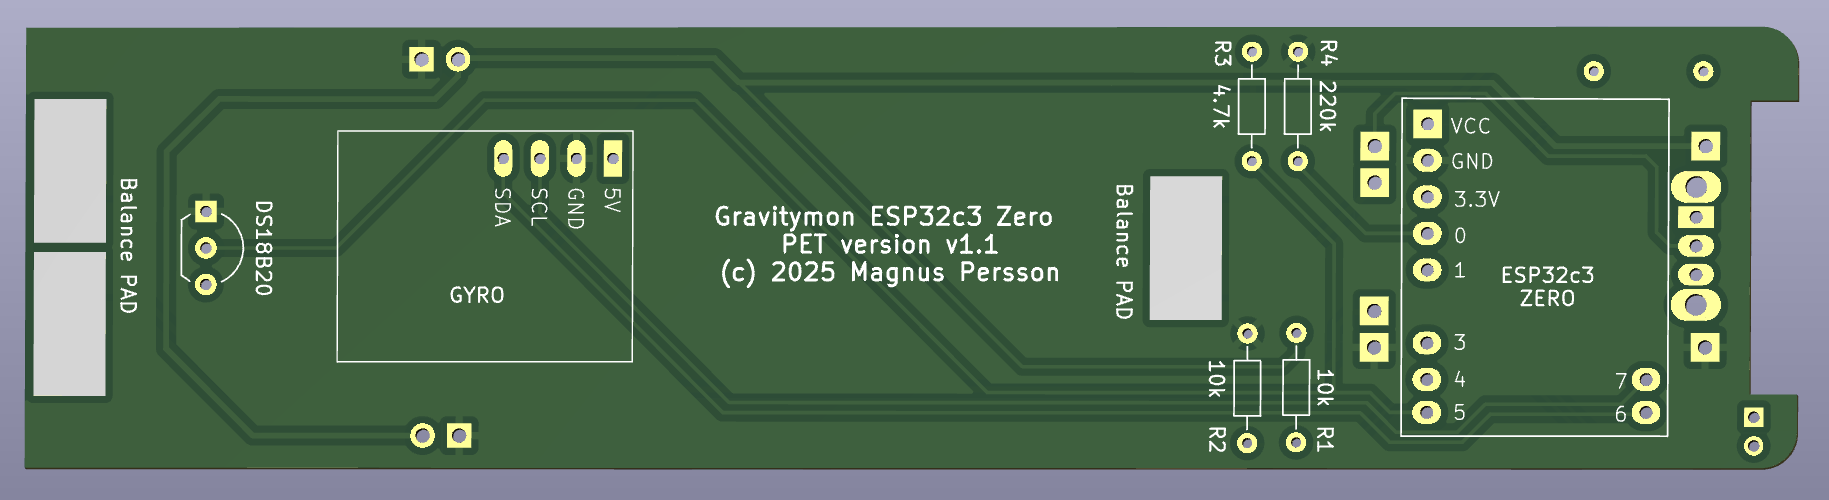
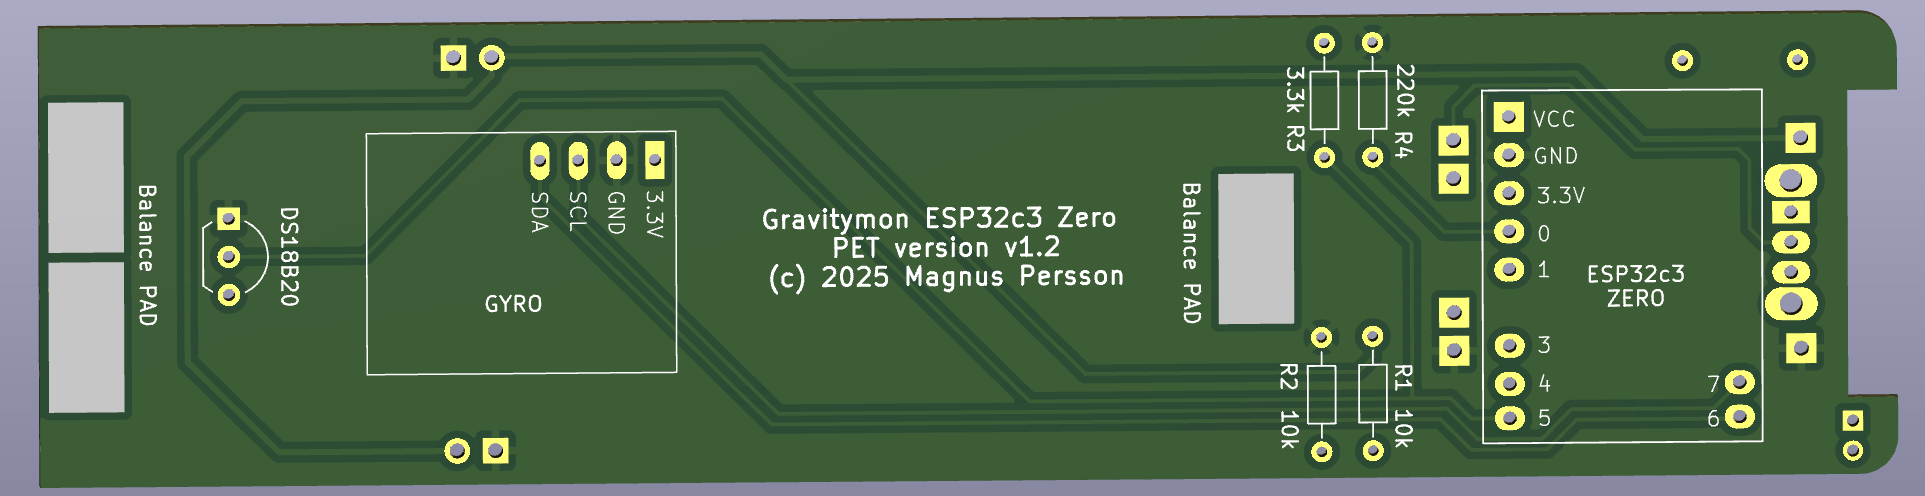
Update docs

diff --git a/src_docs/source/hardware.rst b/src_docs/source/hardware.rst
@@ -113,17 +113,6 @@ Waveshare ESP32c3 Zero using PET casing
 
 This is my own design of a PCB for Gravitymon using the same PET casing as for the iSpindel. For building this you need:
 
-.. note::
-  The v1.0 and v1.1 of the PCB design has a misstake that needs to be corrected or this can damage the ESP32c3 board. The power 
-  and pull-up for the DS18B20 is to VCC which means pin 5 will eventually be damaged. The ICM-42670-p gyro will not work with 5V 
-  so this will make it possbible to use that option as well. The way to correct this is to supply the Gyro and Temperature sensors 
-  from 3.3V. I'm working on a new version of the PCB that uses 3.3V for these components. The solution is to cut the 5V trace at 
-  point 1 and then add a wire between the R3 resistor and the 3.3V pin on the ESP32c3 board at point 2. 
-
-  Another option is to connect the R3 pullup to 3.3V on the ESP32c3 board instead that way the data pin is compatible.
-
-  .. image:: images/gravitymon_hw_fix.png
-
 This is the schematic that is used for this design enabling all the features in Gravitymon.
 
 .. image:: images/gravitymon_schema.png
@@ -140,25 +129,6 @@ This is the back / front of the PCB design.
   :width: 600
   :alt: Gravitymon PCB for PET
 
-
-Build instructions
-++++++++++++++++++
-
-I would also recommend to flash the ESP before soldering it so you know it works and connects to your wifi correctly.
-
-* Start with soldering the switch which goes under the charger module.
-* Solder the connectors for the ESP but dont mount the board just yet.
-* Solder the connectors for the GYRO, make sure the pins for the GYRO should not go all the way through, they need to be flush with the PCB since the battery holder goes on top. Then you can mount the gyro, place something under the gyro so its flat with the PCB so its leveled.
-* Mount the resistors and solder them in place. 
-* Mount the temperature sensor and also ensure the pins are flush with the PCB.
-* Mount the connectors for the charger module and solder that in place on top of the switch.
-* Solder the batter holder in place, start with putting solder on the pads and on the copper connectors, that way its easier to solder them in place.
-* Now solder the ESP in place
-* Finally you can solder the wireless charger module (this is optional) on either side, choose the one that fits your build.
-
-Once the device is mounted you can test it in water. It should be close to 25 degrees (+/- 2 degrees is acceptable), if not you can use 
-the balance pads to add some solder/weight to change the angle. If the angle is too high then use the bottom pads. I have noticed that the batteries
-can differ in weight, they should be around 44g.
 
 iSpindle based on esp8266
 *************************

diff --git a/src_docs/source/hardware_build.rst b/src_docs/source/hardware_build.rst
@@ -56,11 +56,12 @@ located as shown in the image below.
   :alt: Mount resistors
 
 If you are using v1.0 or v1.1 of the PET PCB i recommend to mount the R3 like this so the 
-tempsensor data pin is pulled to 3.3V instead of 5V.
+tempsensor data pin is pulled to 3.3V instead of 5V. This only affects the temperature sensor 
+and not the MPU6050 gyro SDA/SCL pins.
 
 .. image:: images/hw/3a_resistor_mod.jpeg
   :width: 600
-  :alt: Mount resistors
+  :alt: Mount resistors for v1.0/v1.1 PET PCB
 
 
 Step 4 - Mount pins for ESP32

diff --git a/src_docs/source/services.rst b/src_docs/source/services.rst
@@ -88,7 +88,8 @@ of the **Server URL** displayed (e.g. /iot/**mydevice**/ispindel). Where the **m
 
 :bdg-primary:`Endpoint: HTTP POST`
 
-Under Gravitymon configuration menue **Push-Targets** select **HTTP-Post**, into **HTTP URL** field enter the URL
+Under Gravitymon configuration menue **Push-Targets** select **HTTP-Post**, into **HTTP URL** field enter the URL. Set interval to a value higher 
+than 900, ie. 910 to avoid server rejecting data.
 
 .. code-block::
 

diff --git a/src_docs/source/index.rst b/src_docs/source/index.rst
@@ -7,7 +7,7 @@ Welcome to Gravitymon
 #####################
 
 .. note::
-  This documentation reflects **v2.4.0***. Last updated 2026-01-04
+  This documentation reflects **v2.4.0**. Last updated 2026-01-12
 
   Link to `previous documentation here <https://mp-se.github.io/gravitymon/v1.4/>`_ 
 
